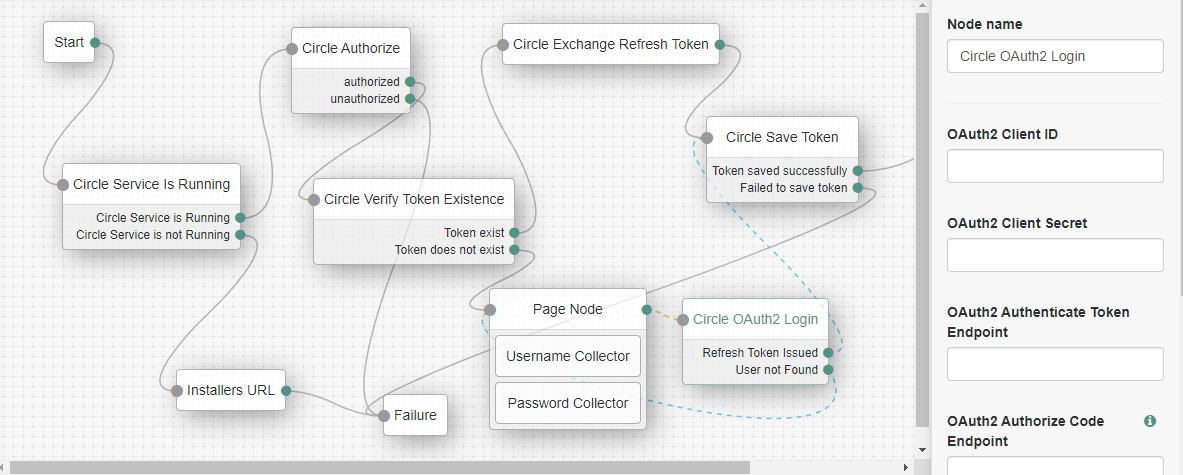
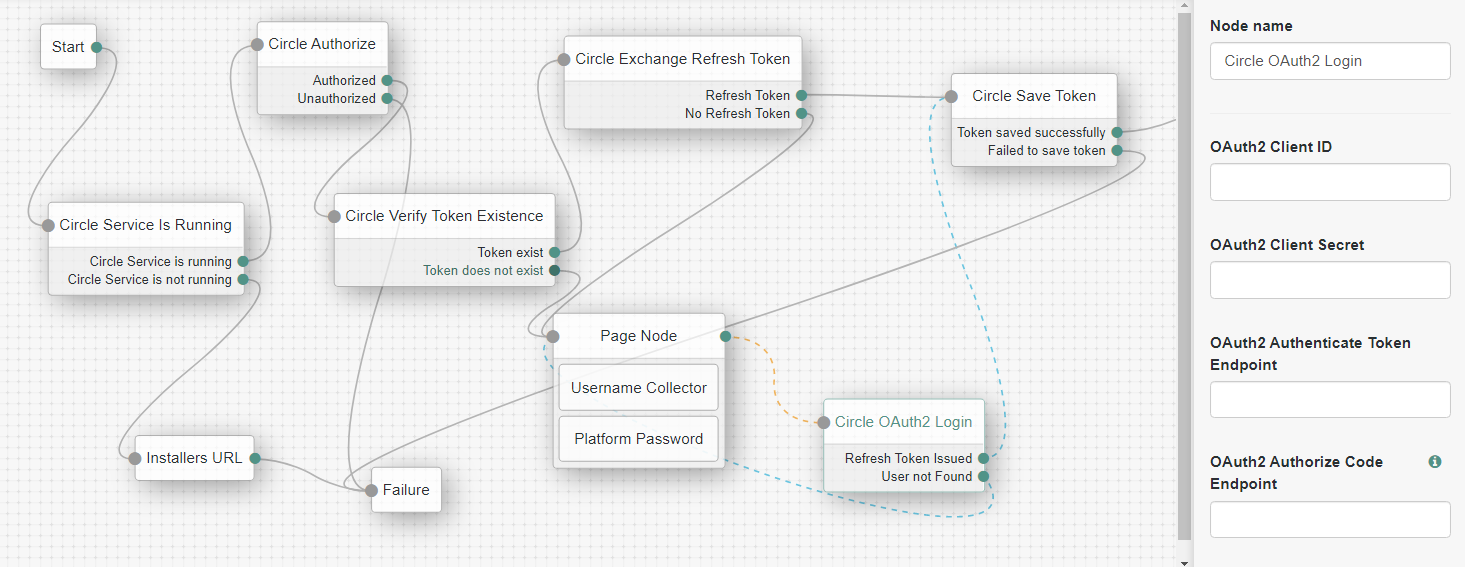
Fixed Circle Service is Running outcome text. Updated README.md images.

diff --git a/src/main/java/ai/circle/service/CircleRunningNode.java b/src/main/java/ai/circle/service/CircleRunningNode.java
@@ -85,8 +85,9 @@ public class CircleRunningNode implements Node {
         @Override
         public List<Outcome> getOutcomes(PreferredLocales locales, JsonValue nodeAttributes) {
             ResourceBundle bundle = locales.getBundleInPreferredLocale(BUNDLE, OutcomeProvider.class.getClassLoader());
-            return ImmutableList.of(new Outcome(TRUE_OUTCOME_ID, bundle.getString(FALSE_OUTCOME_ID)),
-                    new Outcome(TRUE_OUTCOME_ID, bundle.getString(FALSE_OUTCOME_ID)));
+            return ImmutableList.of( //
+                    new Outcome(TRUE_OUTCOME_ID, bundle.getString(TRUE_OUTCOME_ID)),
+                    new Outcome(FALSE_OUTCOME_ID, bundle.getString(FALSE_OUTCOME_ID)));
         }
     }
 }

diff --git a/src/main/java/ai/circle/service/CircleAuthTreeNodesPlugin.java b/src/main/java/ai/circle/service/CircleAuthTreeNodesPlugin.java
@@ -25,7 +25,7 @@ public class CircleAuthTreeNodesPlugin extends AbstractNodeAmPlugin {
 
     @Override
     public String getPluginVersion() {
-        return "1.0.0";
+        return "1.0.1";
     }
 
     @Override

diff --git a/README.md b/README.md
@@ -23,7 +23,7 @@ run "mvn clean install" in the directory containing the pom.xml
 ## Circle Service is Running Node
 This node check if Circle Service is running on the local machine.
 
-<strong>Note:</strong> the <strong>[Installers URL]</strong> node is a renamed <strong>[Failure URL]</strong> node that points to https://internal.gocircle.ai/api/installers.
+<strong>Note:</strong> the <strong>[Installers URL]</strong> node is a renamed <strong>[Failure URL]</strong> node that points to https://download.gocircle.ai/.
 
 
 ![ScreenShot](./media/circleisrunning.png)
@@ -41,8 +41,8 @@ This node Authorizes the usage of the Circle Service by getting a Token from Cir
 
 
 ### The node provides 2 outcomes
-- authorized   
-- unauthorized
+- Authorized   
+- Unauthorized
 
 
 ### Node settings
@@ -80,7 +80,10 @@ The new tokens are stored into the "transientState" ({refresh_token} and {access
 - **OAuth2 Client Secret** The OAuth 2.0 Client Secret
 - **OAuth2 Access Token Endpoint** The OAuth 2.0 access token endpoint.
 
- 
+ ### The node provides 2 outcomes
+- Refresh Token
+- No Refresh Token 
+
  
 ## Circle Save Token Node
 This node stores the refresh token in the Circle Service.
